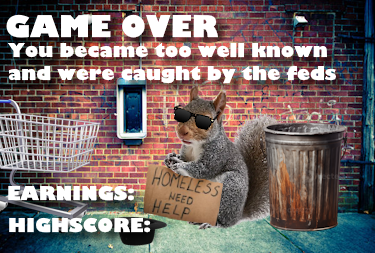
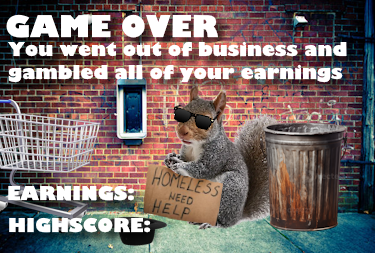
End screens functioning

Changed region(s): [[0.0, 0.166, 0.9387, 0.3874]]

diff --git a/src/main/kotlin/Main.kt b/src/main/kotlin/Main.kt
@@ -11,12 +11,13 @@ import kotlin.math.hypot
 import kotlin.random.Random
 
 
-//CONSANTS
+//CONSTANTS
 const val MAP_ICON_SIZE = 70
 const val MAX_ORDERS = 3 //Used for testing keep on 3 otherwise won't work with current graphical assets
 const val NOTORIETY_MIN_X = 331
 const val NOTORIETY_MAX_X = 831
 const val ACORN_VALUE = 100
+const val NOTORIETY_PASSIVE_DECREASE = -0.0012//0.0012
 
 
 fun ImageIcon.scaled(width: Int, height: Int): ImageIcon = ImageIcon(image.getScaledInstance(width, height, Image.SCALE_SMOOTH))
@@ -49,6 +50,7 @@ class Game {
         Location("Cave Manor", mutableListOf(4), ImageIcon(ClassLoader.getSystemResource("images/CaveManor.png")).scaled(1080, 524), 1.20, 871, 1023, 74, 184)
     )
     var isOnWorldMap = true
+    var gameOver = false
 
     var currentLocation = locations[0]
     var selectLocation = locations[0]
@@ -59,7 +61,7 @@ class Game {
 
     var notoriety = 0.50
     var acorns = 0
-    var cash = 0
+    var cash = 1000
     var globalDifficultyMultiplier = 1.00
 
     var instancedDragObject = JLabel()
@@ -375,7 +377,7 @@ class MainWindow(val game: Game) {
     private fun handleBackgroundClick(): MouseListener {
         return object : MouseAdapter() {
             override fun mouseClicked(e: MouseEvent) {
-                if (game.isOnWorldMap){ // Blocks checking when in a location
+                if (game.isOnWorldMap && !game.gameOver){ // Blocks checking when in a location
                     for (location in game.locations){ // Checks if click location is in bounding box of a location
                         if(e.x in location.coordXMin..location.coordXMax && e.y in location.coordYMin..location.coordYMax && !game.travelling){
                             game.selectLocation = location
@@ -540,16 +542,21 @@ class MainWindow(val game: Game) {
     }
 
     private fun handleProgressbar(){
-        game.notoriety-= 0.0012
+        game.notoriety-= NOTORIETY_PASSIVE_DECREASE
         notorietyMarker.setBounds((NOTORIETY_MIN_X + game.notoriety * (NOTORIETY_MAX_X - NOTORIETY_MIN_X)).toInt(), 600, 25, 25)
         if (game.notoriety <= 0){
-
+            game.notoriety = 0.0
+            notorietyMarker.setBounds((NOTORIETY_MIN_X + game.notoriety * (NOTORIETY_MAX_X - NOTORIETY_MIN_X)).toInt(), 600, 25, 25)
+            endGame(ImageIcon(ClassLoader.getSystemResource("images/HomelessEnding.png")))
+        }else if (game.notoriety >= 1){
+            game.notoriety = 1.0
+            notorietyMarker.setBounds((NOTORIETY_MIN_X + game.notoriety * (NOTORIETY_MAX_X - NOTORIETY_MIN_X)).toInt(), 600, 25, 25)
+            endGame(ImageIcon(ClassLoader.getSystemResource("images/JailEnding.png")))
         }
 
         for (location in game.locations){
             val orderIndex = game.orders.indexOf(location.currentOrder)
             if (orderIndex in game.orders.indices){
-
                 location.currentOrder?.reduceOrderTimer()
                 orderTimerProgress[orderIndex].value = location.currentOrder?.timerVal ?: 100
                 if(orderTimerProgress[orderIndex].value <= 0){
@@ -651,6 +658,36 @@ class MainWindow(val game: Game) {
     fun show() {
         frame.isVisible = true
     }
+
+    private fun endGame(endScreen: ImageIcon){
+        orderDirectorTimer.stop()
+        progressbarTimer.stop()
+        game.gameOver = true
+        panel.removeAll()
+
+        val endLabel = JLabel()
+        val cashLabel = JLabel(game.cash.toString())
+        val highscoreLabel = JLabel("0")
+        val returnButton = JButton()
+
+        endLabel.setBounds(0,0,1080,726)
+        cashLabel.setBounds(450,500, 300, 100)
+        highscoreLabel.setBounds(450,595, 300, 100)
+
+        panel.add(cashLabel,JLayeredPane.DEFAULT_LAYER)
+        panel.add(highscoreLabel,JLayeredPane.DEFAULT_LAYER)
+        panel.add(endLabel, JLayeredPane.DEFAULT_LAYER-1)
+
+        endLabel.icon=endScreen.scaled(1080,726)
+        cashLabel.font = Font(Font.SANS_SERIF, Font.BOLD, 60)
+        cashLabel.foreground = Color.WHITE
+        highscoreLabel.font = Font(Font.SANS_SERIF, Font.BOLD, 60)
+        highscoreLabel.foreground = Color.WHITE
+
+
+        panel.revalidate()
+        panel.repaint()
+    }
 }
 
 class Location(val name: String, val adjacentIndex: MutableList<Int>, val backgroundImage: ImageIcon, val difficultyWeight: Double, val coordXMin: Int, val coordXMax: Int, val coordYMin: Int, val coordYMax: Int) {
@@ -670,7 +707,7 @@ class Order(val difficultyMultiplier:Double, val locationName:String) {
     val notorietyAmount = getRepAmount()
     var timerVal = 100
 
-    fun getIcon():ImageIcon {
+    private fun getIcon():ImageIcon {
         val customerImages = listOf(
             ImageIcon(ClassLoader.getSystemResource("images/Customer1.png")).scaled(484, 484),
             ImageIcon(ClassLoader.getSystemResource("images/Customer2.png")).scaled(484, 484),
@@ -688,7 +725,7 @@ class Order(val difficultyMultiplier:Double, val locationName:String) {
         return customerImages.random()
     }
 
-    fun getName():String {
+    private fun getName():String {
         val customerNames = listOf(
             "Emanuel",
             "Johnny",
@@ -714,7 +751,7 @@ class Order(val difficultyMultiplier:Double, val locationName:String) {
         return customerNames.random()
     }
 
-    fun getSpeechPrompt(): String{
+    private fun getSpeechPrompt(): String{
         val promptsList = listOf(
             "<html>You got the nuts? I have the cash.</html>",
             "<html>I uh... h-hello... Give them here.</html>",
@@ -729,12 +766,12 @@ class Order(val difficultyMultiplier:Double, val locationName:String) {
         return promptsList.random()
     }
 
-    fun getAcornAmount():Int{
+    private fun getAcornAmount():Int{
         val acorns = (Random.nextDouble(0.5, 1.5) * (difficultyMultiplier*difficultyMultiplier*2)).toInt()
         return acorns
     }
 
-    fun getRepAmount():Int{
+    private fun getRepAmount():Int{
         val notoriety = (Random.nextInt(5, 20) * (difficultyMultiplier)).toInt()
         return notoriety
     }